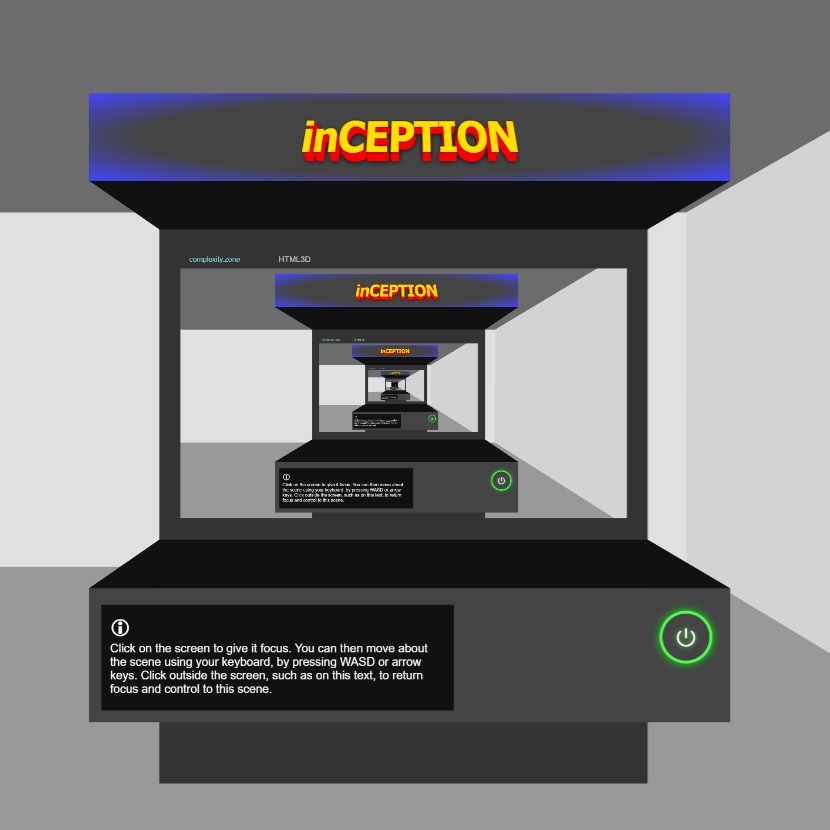
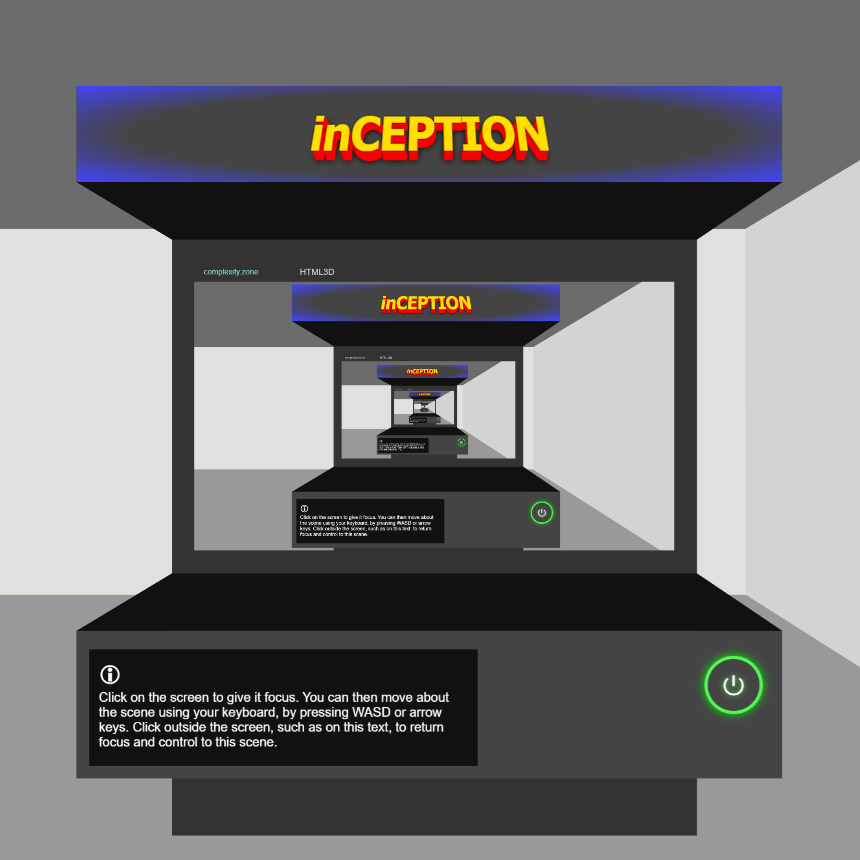
update

Changed region(s): [[0.0, 0.0904, 1.0, 0.994]]

diff --git a/src/html3d/index.html b/src/html3d/index.html
@@ -142,9 +142,11 @@ class HTML3D {
     this.requestRender = true;
   }
   render() {
-    const focalLength = (0.5 * window.innerHeight) / Math.tan((this.camera.fov * 0.5 * Math.PI) / 180);
+    const innerWidth = this.container.clientWidth;
+    const innerHeight = this.container.clientHeight;
+    const focalLength = (0.5 * innerHeight) / Math.tan((this.camera.fov * 0.5 * Math.PI) / 180);
     this.camera.viewMatrix.copy(this.camera.worldMatrix).invert();
-    this.sceneContainer.style.transform = `perspective(${focalLength}px) scale(1) translateZ(${focalLength}px) ${this.camera.viewMatrix.toCSSMatrixString()} translate(${window.innerWidth / 2}px, ${window.innerHeight / 2}px)`;
+    this.sceneContainer.style.transform = `perspective(${focalLength}px) scale(1) translateZ(${focalLength}px) ${this.camera.viewMatrix.toCSSMatrixString()} translate(${innerWidth / 2}px, ${innerHeight / 2}px)`;
     for (let i = 0; i < this.panels.length; i++) {
       const panel = this.panels[i];
       panel.render();
@@ -678,7 +680,7 @@ const scene_HTML3Dshowcase = {
   camera: {
     x: doorWidth / 2,
     y: -cameraHeight,
-    z: 11000,
+    z: 10600,
     rotationY: 0,
     collisionWidth: 300,
     collisionHeight: (cameraHeight - 200)
@@ -690,7 +692,7 @@ const scene_HTML3Dshowcase = {
       height: 1500,
       x: -1500, 
       y: -1500,
-      z: 9000,
+      z: 8200,
       rotationX: 0,
       rotationY: 0,
       obstruction: true,
@@ -704,7 +706,7 @@ const scene_HTML3Dshowcase = {
           </div>
         </div>
         <div style="position: absolute; left: 100px; top: 200px; width: 1100px; height: 150px; color: #ffffff; font-size: 100px;">
-          move
+          move / turn
         </div>
         <div style="position: absolute; left: 200px; top: 350px; width: 1300px; height: 420px;">
           <div style="position: absolute; left: 0px; top: 0px; width: 380px; height: 250px;">
@@ -769,7 +771,7 @@ const scene_HTML3Dshowcase = {
       height: 1500,
       x: doorWidth, 
       y: -1500,
-      z: 9000,
+      z: 8200,
       rotationX: 0,
       rotationY: 0,
       obstruction: true,
